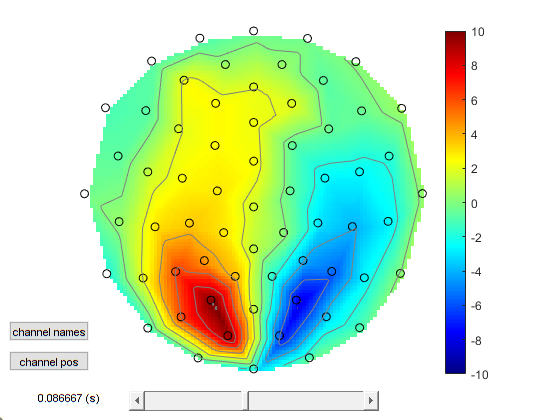
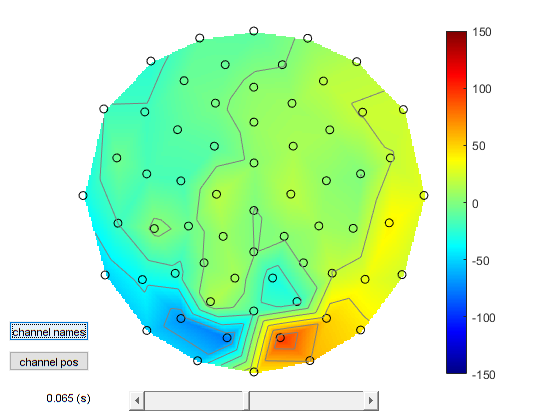
rework with new dataset

diff --git a/docs/tutorials/opm_preprocessing/introduction.md b/docs/tutorials/opm_preprocessing/introduction.md
@@ -10,27 +10,28 @@ Currently SPM supports a file format that has the raw data stored in a binary fi
 
 ```matlab
 S = [];
-S.data = '20230320_115853_meg_001.cMEG';
-S.positions = '20230320_115853_HelmConfig.tsv';
+S.data ='20230417_114328_meg_001.cMEG';
+S.positions= '20230417_114328_HelmConfig.tsv';
 D = spm_opm_create(S);
+
 ```
 
 !!! note
     If you would like your file format to be supported by SPM please [open an issue on GitHub](https://github.com/spm/spm/issues).
 
-## Identifying bad channels
+## Power Spectral Density
 
-Once OPM data is imported the first step should be to identify any bad channels by looking at the PSD (power spectral density). This plot tells us if any channels are deviating notably from their manufacturer specifications or are clear outlier channels. 
+Once OPM data is imported the first step should be to look at the PSD (power spectral density). This plot tells us if any channels are deviating notably from their manufacturer specifications or are clear outlier channels. 
 
 
 ```matlab
-S = [];
-S.D = D;
-S.triallength = 3000; % time in ms: longer windows provide more frequency resolution but are noisier
-S.plot = 1;
-S.channels = 'MEG';   % select only MEG channels
+S=[];
+S.triallength = 3000; 
+S.plot=1;
+S.D=D;
+S.channels='MEG';
 spm_opm_psd(S);
-ylim([1,1e5])         % set y axis limits between 1fT and 100,000 fT
+ylim([1,1e5])
 ```
 
 <figure markdown>
@@ -40,21 +41,6 @@ ylim([1,1e5])         % set y axis limits between 1fT and 100,000 fT
   <figcaption>Power Spectral Density</figcaption>
 </figure>
 
-We can now interactively identify the bad channels by clicking on the plot. We can then set the bad channels with the following code. 
-
-<figure markdown>
-  <div class="center">
-    <img src="../../../assets/figures/opm/badchannel_psd.png" style="width:160mm" />
-  </div>
-  <figcaption>Bad Channels</figcaption>
-</figure>
-
-```matlab 
-D = badchannels(D,[51,52],1);
-D.save();
-```
-!!! note
-    If you change an M/EEG object(`D`) you should call the `save` method to make your changes permanent.
 
 ## Filtering 
 
@@ -62,9 +48,9 @@ We can also filter our data to remove very low frequency interference and very h
 The key arguments are `S.freq` which sets the cut-off frequency and `S.band` which sets the type of filter (high-pass or low-pass)
 
 ```matlab
-S = [];
-S.D = D;
-S.freq = [2];
+S=[];
+S.D=cD;
+S.freq=[10];
 S.band = 'high';
 fD = spm_eeg_ffilter(S);
 
@@ -75,7 +61,7 @@ S.band = 'low';
 fD = spm_eeg_ffilter(S);
 
 ```
-We can also optionally apply a stop-band filter for removing the line noise by changing the `S.band` argument.
+We can also optionally apply a stop-band filter for removing the line noise by changing the `S.band` argument but we won't run that here. 
 
 ```matlab
 S = [];
@@ -121,18 +107,24 @@ If the source of magnetic interference is quite near the array then the low orde
 ```matlab
 S = [];
 S.D = fD;
-S.corrLim = .95;
+S.corrLim = .98;
 mD = spm_opm_amm(S);
 ``` 
 ??? info "How do I pick a value for S.corrLim?"
-	Setting a lower value for `S.corrLim` will result in more aggressive cleaning of the data but will increase the risk of removing interesting brain signal. The factors that influence this decision are the order of the internal harmonics (`S.li`), the SNR of the brain response, the time scale at which physiological correlations exist, the length of the time window analysed and the number of channels in your array. As such it is not possible to extrapolate any heuristics one might have developed from using other temporal subspace intersection methods such as TSSS. However, the code has been developed so that generally values greater than `0.95` are generally safe for arrays of less than 200 channels. 
+	Setting a lower value for `S.corrLim` will result in more aggressive cleaning of the data but will increase the risk of removing interesting brain signal. The factors that influence this decision are the order of the internal harmonics (`S.li`), the SNR of the brain response, the time scale at which physiological correlations exist, the length of the time window analysed and the number of channels in your array. As such it is not possible to extrapolate any heuristics one might have developed from using other temporal subspace intersection methods such as TSSS. However, the code has been developed so that  values greater than `0.98` are generally safe for arrays of less than 200 channels. 
 
 
-We can now also examine what the impact of our preprocessing has been by creating another PSD. Note that this time we have excluded the bad channels identified earlier by passing the labels of the good channels to `S.channels`.
+!!! note "How do I choose which model to use?"
+	1. If you have less than 120 channels use `spm_opm_hfc`.
+	2. If you have radial only samplings do not increase `S.L` beyond 1.
+	3. If you have more than 120 channels use `spm_opm_amm`.
+	4. If you have more than 120 channels and have spatially complex interference  use `spm_opm_amm` with `S.corrLim` set between `0.95` and `1`.
+	
+## Examining processed data 
+
+We can now also examine what the impact of our preprocessing has been by creating another PSD. 
 
 ```matlab
-cinds= setdiff(indchantype(mD,'MEG'),badchannels(mD));
-chans = chanlabels(mD,cinds);
 S=[];
 S.triallength = 3000; 
 S.plot=1;
@@ -149,27 +141,47 @@ ylim([1,1e5])
   <figcaption>processed PSD</figcaption>
 </figure>
 
-!!! note "How do I choose which model to use?"
-	1. If you have less than 120 channels use `spm_opm_hfc`.
-	2. If you have radial only samplings do not increase `S.L` beyond 1.
-	3. If you have more than 120 channels use `spm_opm_amm`.
-	4. If you have more than 120 channels and have spatially complex interference  use `spm_opm_amm` with `S.corrLim` set between `0.95` and `1`.
+
 	
+
+If you can spot any channels in the PSD that are behaving differently to other channels we can interactively identify them by clicking on the plot. We can then set the bad channels with the following code. 
+
+<figure markdown>
+  <div class="center">
+    <img src="../../../assets/figures/opm/badchannel_psd.png" style="width:160mm" />
+  </div>
+  <figcaption>Bad Channels</figcaption>
+</figure>
+
+As all channels appear to be behaving fairly similarly we won't mark any as bad but the code should you wish to do so is below.
+```matlab 
+mD = badchannels(mD,[88],1);
+mD.save();
+```
+!!! note
+    If you change an M/EEG object(`D`) you should call the `save` method to make your changes permanent.
+
+
 	
-## Epoching
-Now that we have modelled the interference in our data we can cut our data up into the time periods we are interested in. To do this we require that a trigger channel exists in our data set  when some stimuli was presented to a participant. In this case we are interested in the 50ms before the stimuli up until 250ms after the stimuli. This time window is specified with the `S.timewin` argument. The channel that encodes when the stimuli is presented is channel `Trigger 6 Z` and we can specify this with the `S.triggerChannels` argument.
+## Epoching and baseline correction
+Now that we have modelled the interference in our data we can cut our data up into the time periods we are interested in. To do this we require that a trigger channel exists in our data set  when some stimuli was presented to a participant. In this case we are interested in the 50ms before the stimuli up until 200ms after the stimuli. This time window is specified with the `S.timewin` argument. The channel that encodes when the stimuli is presented is channel `Trigger 6 Z` and we can specify this with the `S.triggerChannels` argument.
 
 ```matlab
 S =[];
 S.D=mD;
-S.timewin=[-50 250];
+S.timewin=[-50 200];
 S.triggerChannels ={'Trigger 6 Z'};
 eD= spm_opm_epoch_trigger(S);
+
+S=[];
+S.D = eD;
+S.timewin = [-50 0];
+eD = spm_eeg_bc(S);
 ``` 
 !!! note
     SPM automatically baseline corrects data that has a negative time window. if you do not have a negative time window you will need to do baseline correction separately( see `spm_eeg_bc`).
 
-## Averaging and t-statistics
+## Averaging
 
 We can now average across our trials and compute our t-statistic. The function `spm_eeg_average` has 1 key argument: `S.D`. We can then plot the average response for all channels trivially. 
 
@@ -201,34 +213,6 @@ xlim([0,.250])
   <figcaption>Evoked field</figcaption>
 </figure>
 
-We can see there are some channels not behaving like the others in the baseline so it is worth computing a t-statistic across trials to see if these changes are meaningful. The evoked response is now nice and clean showing clear peaks that that reverse  in polarity across the sensors. 
-
-```matlab
-se = std(eD(used,:,:),[],3)./sqrt(size(eD,3));
-mu = muD(used,:,:);
-tstat = mu./se;
-
-figure()
-plot(muD.time(),tstat')
-xlabel('Time (s)')
-ylabel('t-statistic')
-grid on
-ax = gca; % current axes
-ax.FontSize = 13;
-ax.TickLength = [0.02 0.02];
-fig= gcf;
-fig.Color=[1,1,1];
-xlim([0,.250])
-ylim([-20,20])
-``` 
-
-<figure markdown>
-  <div class="center">
-    <img src="../../../assets/figures/opm/t-stat.png" style="width:160mm" />
-  </div>
-  <figcaption>t-statistic</figcaption>
-</figure>
-
 
 
 ## Topoplots
@@ -237,21 +221,19 @@ Displaying OPM topographies is non trivial for 2 reasons:
   1. For small channel arrays 2D representations of 3D may not look very good.
   2. OPMs measure multiple components of the magnetic field at the same point in space and the sampled  field pattern is not necessarily smooth. 
   
- As such for now we will only display the radial component of the magnetic field measurement(which is a smooth interpretable field). We can do this with `spm_opm_plotScalpData` and we will initially look at the peak around 90ms. 
+ As such for now we will only display the radial component of the magnetic field measurement(which is a smooth interpretable field). We can do this with `spm_opm_plotScalpData` and we will initially look at the peak around 70ms. 
   
   !!! note
     If you think OPM scalp data should be displayed differently please [open an issue on GitHub](https://github.com/spm/spm/issues).
 
 ```matlab
 
-muD(:,:,:)=zeros(size(muD));
-muD(used,:,:)=tstat;
-
 S=[];
 S.D = muD;
-S.T = .085; 
+S.T=.066
+%S.display='NORM';
 spm_opm_plotScalpData(S);
-caxis([-10,10])
+caxis([-150, 150])
 ``` 
 <figure markdown>
   <div class="center">
